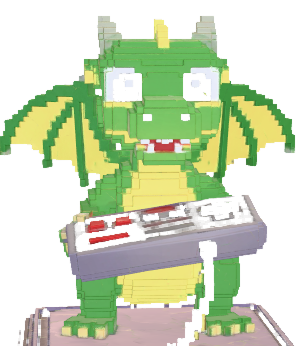
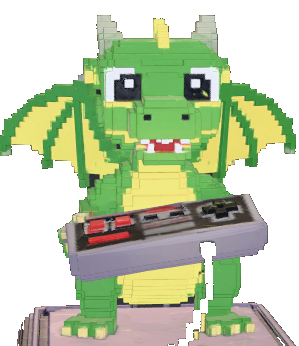
Remove dark character mattes

diff --git a/public/play/index.html b/public/play/index.html
@@ -43,13 +43,13 @@
     </section>
     <label data-i18n="brawlerLabel">YOUR BRAWLER</label>
     <div id="characters" class="choice-grid">
-      <button data-character="blaze" class="selected"><span class="portrait blaze"></span><img class="char-img" src="/characters/blaze.png?v=78" alt="" onerror="this.hidden=true"><span data-i18n="bobName">Bob</span><small data-i18n="blazeDesc"></small></button>
-      <button data-character="boomer" class="locked"><span class="portrait boomer"></span><img class="char-img" src="/characters/boomer.png?v=78" alt="" onerror="this.hidden=true"><span data-i18n="boomerName">Boomer</span><small data-i18n="boomerDesc"></small></button>
-      <button data-character="fangli" class="locked"><span class="portrait fangli"></span><img class="char-img" src="/characters/fangli.png?v=78" alt="" onerror="this.hidden=true"><span data-i18n="fangliName">Fangli</span><small data-i18n="fangliDesc">Long bone shot</small></button>
-      <button data-character="pixel"><span class="portrait pixel"></span><img class="char-img" src="/characters/pixel.png?v=78" alt="" onerror="this.hidden=true"><span data-i18n="pixelName">Pixel</span><small data-i18n="pixelDesc">Ricochet laser</small></button>
-      <button data-character="tank" class="locked"><span class="portrait tank"></span><img class="char-img" src="/characters/tank.png?v=78" alt="" onerror="this.hidden=true"><span data-i18n="auroraName">Aurora</span><small data-i18n="tankDesc">Snowstorm + ice field</small></button>
-      <button data-character="bazaar"><span class="portrait bazaar"></span><img class="char-img" src="/characters/bazaar.png?v=78" alt="" onerror="this.hidden=true"><span data-i18n="bazaarName">Bazaar</span><small data-i18n="bazaarDesc">Coin chain + buff box</small></button>
-      <button data-character="masterv" class="locked"><span class="portrait masterv"></span><img class="char-img" src="/characters/masterv.png?v=78" alt="" onerror="this.hidden=true"><span data-i18n="mastervName">???</span><small data-i18n="mastervDesc">???</small></button>
+      <button data-character="blaze" class="selected"><span class="portrait blaze"></span><img class="char-img" src="/characters/blaze.png?v=79" alt="" onerror="this.hidden=true"><span data-i18n="bobName">Bob</span><small data-i18n="blazeDesc"></small></button>
+      <button data-character="boomer" class="locked"><span class="portrait boomer"></span><img class="char-img" src="/characters/boomer.png?v=79" alt="" onerror="this.hidden=true"><span data-i18n="boomerName">Boomer</span><small data-i18n="boomerDesc"></small></button>
+      <button data-character="fangli" class="locked"><span class="portrait fangli"></span><img class="char-img" src="/characters/fangli.png?v=79" alt="" onerror="this.hidden=true"><span data-i18n="fangliName">Fangli</span><small data-i18n="fangliDesc">Long bone shot</small></button>
+      <button data-character="pixel"><span class="portrait pixel"></span><img class="char-img" src="/characters/pixel.png?v=79" alt="" onerror="this.hidden=true"><span data-i18n="pixelName">Pixel</span><small data-i18n="pixelDesc">Ricochet laser</small></button>
+      <button data-character="tank" class="locked"><span class="portrait tank"></span><img class="char-img" src="/characters/tank.png?v=79" alt="" onerror="this.hidden=true"><span data-i18n="auroraName">Aurora</span><small data-i18n="tankDesc">Snowstorm + ice field</small></button>
+      <button data-character="bazaar"><span class="portrait bazaar"></span><img class="char-img" src="/characters/bazaar.png?v=79" alt="" onerror="this.hidden=true"><span data-i18n="bazaarName">Bazaar</span><small data-i18n="bazaarDesc">Coin chain + buff box</small></button>
+      <button data-character="masterv" class="locked"><span class="portrait masterv"></span><img class="char-img" src="/characters/masterv.png?v=79" alt="" onerror="this.hidden=true"><span data-i18n="mastervName">???</span><small data-i18n="mastervDesc">???</small></button>
     </div>
 
     <label data-i18n="modeLabel">GAME MODE</label>

diff --git a/public/service-worker.js b/public/service-worker.js
@@ -1,5 +1,5 @@
-const CACHE = "brawlclaui-v61";
-const ASSETS = ["/play/", "/play/style.css?v=59", "/play/play.js?v=61", "/characters/blaze.png?v=78", "/characters/boomer.png?v=78", "/characters/fangli.png?v=78", "/characters/pixel.png?v=78", "/characters/tank.png?v=78", "/characters/bazaar.png?v=78", "/characters/masterv.png?v=78", "/mobile/", "/mobile/style.css?v=36", "/mobile/controller.js?v=36", "/shared/firebase-progress.js", "/shared/gamepad.js", "/shared/qr-generator.js", "/shared/runtime.js", "/native-config.js", "/manifest.webmanifest", "/icons/icon.svg"];
+const CACHE = "brawlclaui-v62";
+const ASSETS = ["/play/", "/play/style.css?v=59", "/play/play.js?v=61", "/characters/blaze.png?v=79", "/characters/boomer.png?v=79", "/characters/fangli.png?v=79", "/characters/pixel.png?v=79", "/characters/tank.png?v=79", "/characters/bazaar.png?v=79", "/characters/masterv.png?v=79", "/mobile/", "/mobile/style.css?v=36", "/mobile/controller.js?v=36", "/shared/firebase-progress.js", "/shared/gamepad.js", "/shared/qr-generator.js", "/shared/runtime.js", "/native-config.js", "/manifest.webmanifest", "/icons/icon.svg"];
 self.addEventListener("install", event => event.waitUntil(caches.open(CACHE).then(cache => cache.addAll(ASSETS)).then(() => self.skipWaiting())));
 self.addEventListener("activate", event => event.waitUntil(caches.keys().then(keys => Promise.all(keys.filter(key => key !== CACHE).map(key => caches.delete(key)))).then(() => self.clients.claim())));
 self.addEventListener("fetch", event => {

diff --git a/public/tv/host.js b/public/tv/host.js
@@ -3,7 +3,7 @@ const canvas = document.querySelector("#arena"), ctx = canvas.getContext("2d");
 const codeEl = document.querySelector("#room-code"), list = document.querySelector("#player-list"), count = document.querySelector("#player-count"), toast = document.querySelector("#toast");
 let players = [], roomCode = "";
 let gameMeta = { arena: { obstacles: [], bushes: [] } };
-const characterImages = Object.fromEntries(["blaze", "boomer", "fangli", "pixel", "tank", "bazaar", "masterv"].map(id => { const image = new Image(); image.src = `/characters/${id}.png?v=78`; return [id, image]; }));
+const characterImages = Object.fromEntries(["blaze", "boomer", "fangli", "pixel", "tank", "bazaar", "masterv"].map(id => { const image = new Image(); image.src = `/characters/${id}.png?v=79`; return [id, image]; }));
 const motionState = new Map();
 function message(text) { toast.textContent = text; toast.classList.add("show"); setTimeout(() => toast.classList.remove("show"), 1800); }
 function renderLobby() { count.textContent = `${players.length} / 8`; list.innerHTML = players.map(p => `<li class="player" style="opacity:${p.connected ? 1 : .45}"><i class="dot" style="background:${p.color}"></i>${p.name}${p.connected ? "" : " (reconnecting)"}</li>`).join(""); }

diff --git a/public/play/play.js b/public/play/play.js
@@ -694,7 +694,7 @@ let lastCloudSnapshot = "";
 let pendingJoinCode = (new URLSearchParams(location.search).get("join") || "").trim().toUpperCase();
 const characterImages = Object.fromEntries(["blaze", "boomer", "fangli", "pixel", "tank", "bazaar", "masterv"].map(id => {
   const image = new Image();
-  image.src = `/characters/${id}.png?v=78`;
+  image.src = `/characters/${id}.png?v=79`;
   return [id, image];
 }));
 const motionState = new Map();
